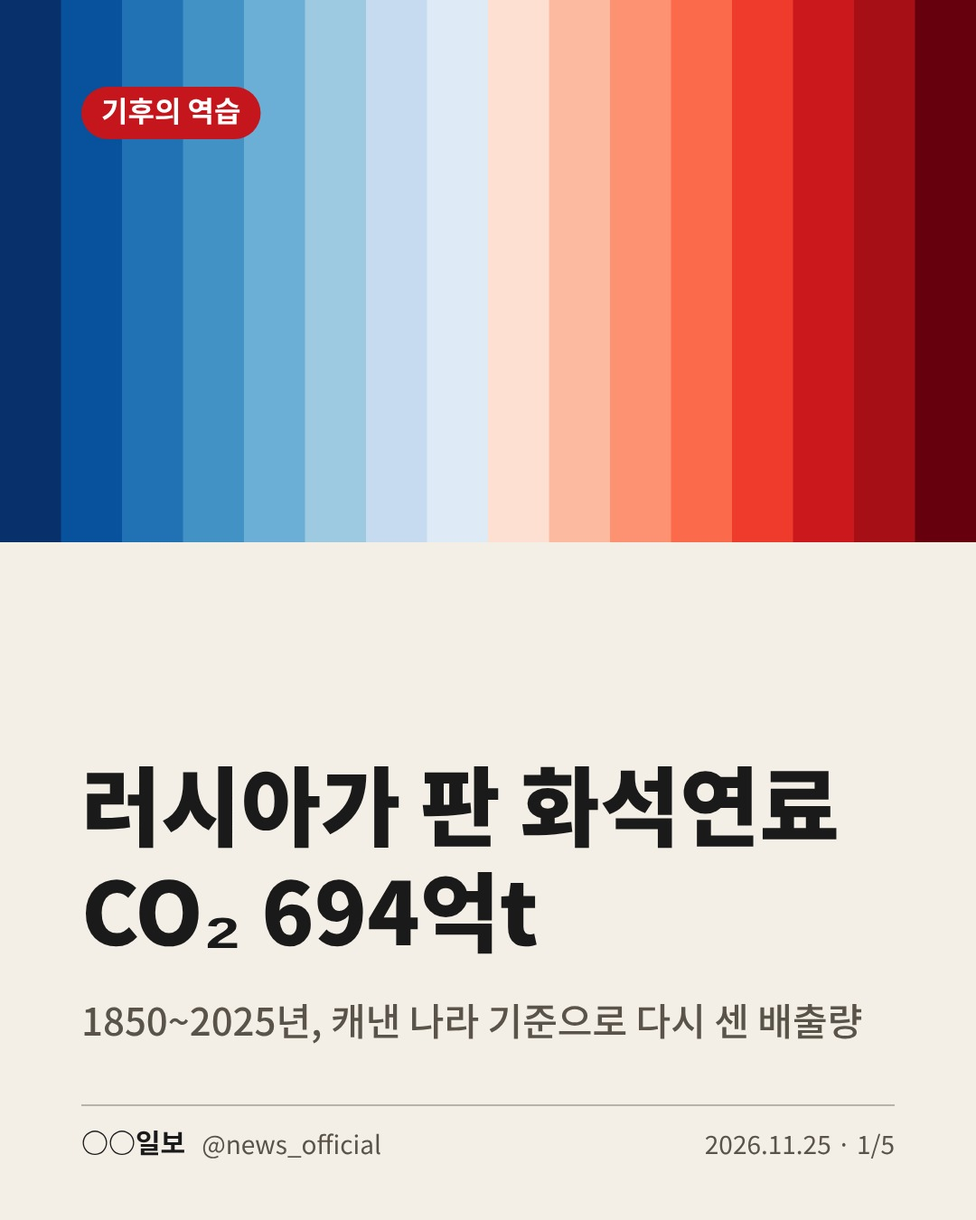
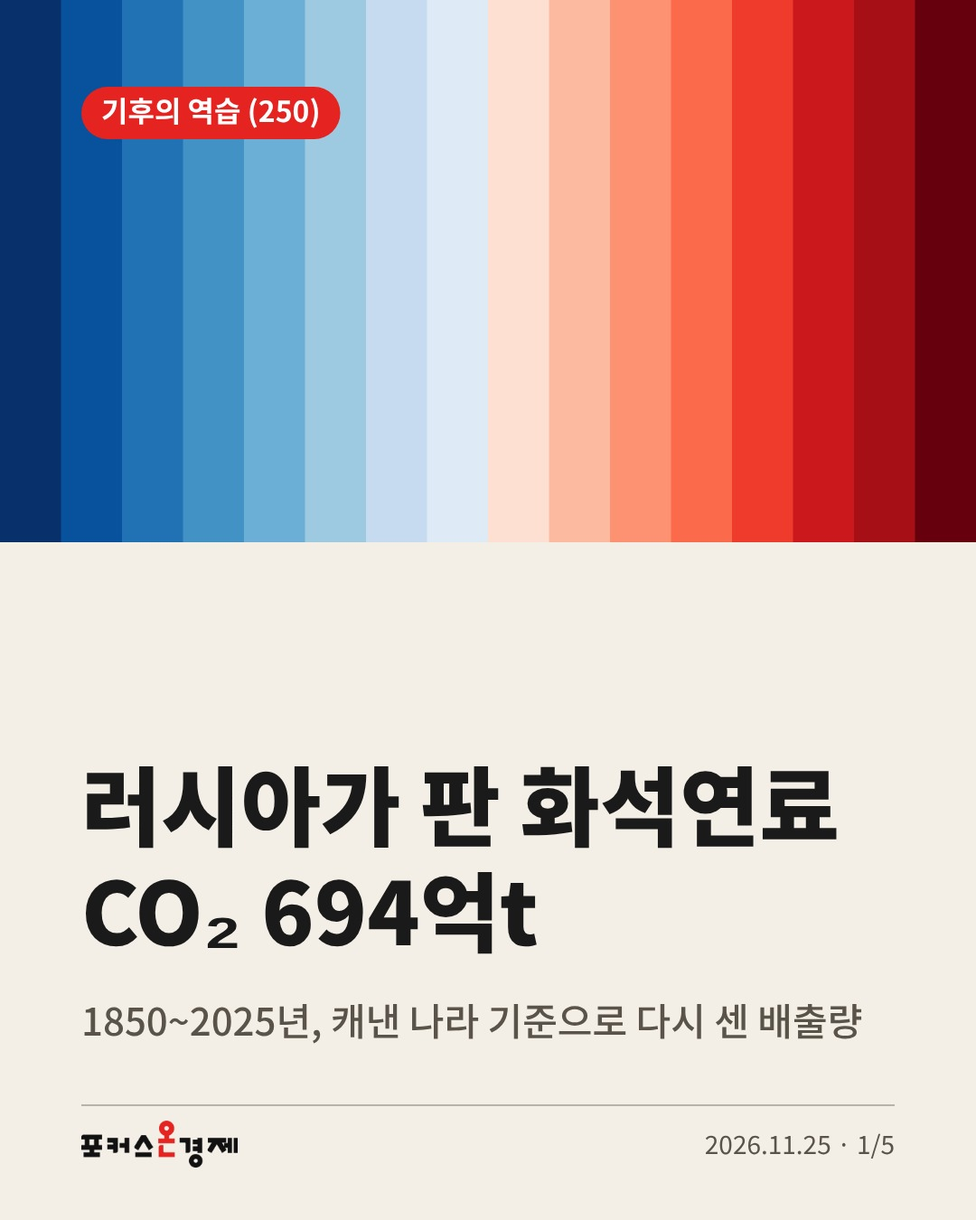
Brand card news tool for Focus On Economy
Use the outlet's logo and red, rename series to match the site
(기후의 역습 with episode number, 증시 레이더), and re-render the example.

Claude-Session: https://claude.ai/code/session_01LpKMAiNNHk9goM4ZpfEptM

Changed region(s): [[0.0917, 0.0622, 0.3667, 0.1244], [0.0611, 0.9022, 0.3972, 0.9644]]

diff --git a/cardnews-tool/index.html b/cardnews-tool/index.html
@@ -14,7 +14,7 @@
    PICTURE: 실제 카드 미리보기 캐러셀 자체
    COLOUR and TYPE: 흰 바탕, 먹색, 신문 빨강 하나 / Noto Sans KR
    LAYOUT: 먹색 제목줄, 원고 | 교정쇄 2단, 아래에 캡션과 장별 편집 */
-:root{color-scheme:light dark;--bg:light-dark(#ffffff,#121212);--ink:light-dark(#141414,#ececec);--sub:light-dark(#5a5a5a,#a9a9a9);--line:light-dark(#dedede,#303030);--panel:light-dark(#f4f4f2,#1b1b1b);--red:#d7261e}
+:root{color-scheme:light dark;--bg:light-dark(#ffffff,#121212);--ink:light-dark(#141414,#ececec);--sub:light-dark(#5a5a5a,#a9a9a9);--line:light-dark(#dedede,#303030);--panel:light-dark(#f4f4f2,#1b1b1b);--red:#e52320}
 :root[data-theme=light]{color-scheme:light}:root[data-theme=dark]{color-scheme:dark}
 *{box-sizing:border-box;min-width:0}
 body{margin:0;background:var(--bg);color:var(--ink);font:16px/1.55 "Noto Sans KR","Apple SD Gothic Neo",sans-serif;overflow-x:clip}
@@ -91,15 +91,15 @@ summary{cursor:pointer;font-weight:700;min-height:32px}
       <button id="zip" class="primary" hidden>전체 이미지 저장 (ZIP)</button>
       <span id="dlhint" class="note">이미지를 길게 누르거나 우클릭해서 저장할 수 있습니다.</span>
     </div>
-    <p class="note" id="sampleNote">지금 보이는 카드와 기사는 예시입니다. 수치는 실제 시세가 아닙니다.</p>
+    <p class="note" id="sampleNote">지금 보이는 카드는 기사 「러시아가 수출한 화석연료서 CO₂ 694억t」로 만든 예시입니다.</p>
   </section>
 
   <section class="desk" aria-label="기사 입력">
     <fieldset class="seg" id="series">
       <legend>시리즈</legend>
-      <label><input type="radio" name="series" value="climate"><span>기후위기의 역습</span></label>
-      <label><input type="radio" name="series" value="open"><span>증시 개장</span></label>
-      <label><input type="radio" name="series" value="close" checked><span>증시 마감</span></label>
+      <label><input type="radio" name="series" value="climate" checked><span>기후의 역습</span></label>
+      <label><input type="radio" name="series" value="open"><span>증시 레이더 · 개장</span></label>
+      <label><input type="radio" name="series" value="close"><span>증시 레이더 · 마감</span></label>
       <label><input type="radio" name="series" value="general"><span>일반 기사</span></label>
     </fieldset>
     <label for="title">기사 제목</label>
@@ -108,17 +108,19 @@ summary{cursor:pointer;font-weight:700;min-height:32px}
     <textarea id="body" rows="11" placeholder="기사 본문을 그대로 붙여 넣으세요"></textarea>
     <div class="row">
       <div><label for="count">장수</label>
-        <select id="count"><option>5</option><option selected>6</option><option>7</option><option>8</option></select></div>
-      <div><label for="photo">표지 사진 (선택)</label><input id="photo" type="file" accept="image/*"></div>
+        <select id="count"><option selected>5</option><option>6</option><option>7</option><option>8</option></select></div>
+      <div><label for="ep">회차 (선택)</label><input id="ep" inputmode="numeric" placeholder="예: 251"></div>
     </div>
+    <label for="photo">표지 사진 (선택)</label><input id="photo" type="file" accept="image/*">
     <p class="note" id="photoNote" hidden>표지 사진 적용됨 · <button id="rmPhoto" style="min-height:32px;font-size:13px">사진 빼기</button></p>
     <div style="margin-top:18px"><button id="gen" class="primary">카드뉴스 생성</button></div>
     <p id="msg" role="status" aria-live="polite"></p>
     <details>
       <summary>매체 설정</summary>
       <label for="bname">매체 이름</label><input id="bname">
-      <label for="bhandle">인스타그램 계정</label><input id="bhandle">
-      <label for="bcolor">일반 기사 강조색</label><input id="bcolor" type="color">
+      <label for="bhandle">인스타그램 계정</label><input id="bhandle" placeholder="@계정 (비우면 로고만 표시)">
+      <label for="bcolor">강조색</label><input id="bcolor" type="color">
+      <label style="display:flex;gap:8px;align-items:center;font-weight:500"><input id="blogo" type="checkbox" style="width:20px;height:20px"> 카드 하단에 로고 이미지 사용</label>
       <p class="note">설정은 이 브라우저에 저장됩니다.</p>
     </details>
   </section>
@@ -145,7 +147,8 @@ summary{cursor:pointer;font-weight:700;min-height:32px}
 {
 const $=s=>document.querySelector(s);
 const W=1080,H=1350,PAD=90;
-const SERIES={climate:{kicker:'기후위기의 역습'},open:{kicker:'오늘의 증시 · 개장'},close:{kicker:'오늘의 증시 · 마감'},general:{kicker:'뉴스'}};
+const SERIES={climate:{kicker:'기후의 역습'},open:{kicker:'증시 레이더 · 개장'},close:{kicker:'증시 레이더 · 마감'},general:{kicker:'포커스온경제'}};
[1 lines of base64/hex data omitted]
 const KINDS={cover:'표지',point:'본문',index:'수치표',quote:'인용',outro:'마무리'};
 const STRIPES=['#08306b','#08519c','#2171b5','#4292c6','#6baed6','#9ecae1','#c6dbef','#deebf7','#fee0d2','#fcbba1','#fc9272','#fb6a4a','#ef3b2c','#cb181d','#a50f15','#67000d'];
 const d0=new Date(),TODAY=`${d0.getFullYear()}.${String(d0.getMonth()+1).padStart(2,'0')}.${String(d0.getDate()).padStart(2,'0')}`;
@@ -153,28 +156,29 @@ const str=v=>v==null?'':String(v).replace(/\\n/g,'\n');
 const use=n=>window.claude&&window.claude.use?window.claude.use(n):Promise.resolve(null);
 const h=(t,p={},k=[])=>{const e=Object.assign(document.createElement(t),p);for(const c of k)e.append(c);return e};
 
-let brand={name:'○○일보',handle:'@news_official',color:'#d7261e'};
-try{Object.assign(brand,JSON.parse(localStorage.getItem('cn-brand')||'{}'))}catch(e){}
+let brand={name:'포커스온경제',handle:'',color:'#e52320',logo:true};
+try{Object.assign(brand,JSON.parse(localStorage.getItem('cn-brand2')||'{}'))}catch(e){}
 
-const st={series:'close',photo:null,canvases:[],slides:[
- {kind:'cover',title:'코스피 2,810선 회복\n외국인 사흘 만에 순매수',body:'반도체 강세에 0.66% 오르며 마감',dir:'up'},
- {kind:'index',title:'오늘의 지수',items:[{name:'코스피',value:'2,812.45',change:'+18.32',pct:'+0.66%'},{name:'코스닥',value:'868.10',change:'-3.25',pct:'-0.37%'},{name:'원/달러 환율',value:'1,384.2원',change:'-4.1원',pct:''}]},
- {kind:'point',title:'반도체가 끌어올렸다',body:'미국 기술주 반등 소식에 반도체 대형주로 매수세가 몰렸습니다. 외국인은 유가증권시장에서 3,200억 원어치를 순매수했습니다.'},
- {kind:'point',title:'코스닥은 약세',body:'2차전지 종목에서 차익 실현 매물이 나오면서 코스닥은 0.37% 내렸습니다.'},
- {kind:'point',title:'내일 볼 것',body:'밤사이 발표되는 미국 물가 지표와 원/달러 환율 흐름이 다음 거래일 방향을 가를 전망입니다.'},
- {kind:'outro',title:'자세한 내용은\n프로필 링크에서',body:'매일 장 마감 후 증시를 정리해 드립니다'}
-],caption:'코스피가 반도체 강세에 힘입어 2,810선을 회복했습니다. 외국인이 사흘 만에 순매수로 돌아섰고, 코스닥은 2차전지 약세로 소폭 내렸습니다. 밤사이 미국 물가 지표가 다음 거래일의 변수입니다.\n▶ 기사 전문은 프로필 링크에서',
-tags:['#증시','#코스피','#코스닥','#장마감','#반도체','#환율','#경제뉴스'],verify:['코스피 2,812.45 (+18.32)','코스닥 868.10 (-3.25)','환율 1,384.2원','외국인 순매수 3,200억 원']};
-$('#title').value='코스피, 반도체 강세에 2,810선 회복…외국인 사흘 만에 순매수';
-$('#body').value='코스피가 반도체 대형주 강세에 힘입어 2,810선을 회복했다. 25일 유가증권시장에서 코스피는 전 거래일보다 18.32포인트(0.66%) 오른 2,812.45에 장을 마쳤다. 외국인은 3,200억 원어치를 순매수하며 사흘 만에 매수 우위로 돌아섰다. 코스닥은 2차전지 종목의 차익 실현 매물에 3.25포인트(0.37%) 내린 868.10에 마감했다. 원/달러 환율은 4.1원 내린 1,384.2원에 거래를 마쳤다. 시장에서는 밤사이 발표되는 미국 물가 지표가 다음 거래일 방향을 가를 것으로 보고 있다. (예시 기사)';
+const K='기후의 역습';
+const st={series:'climate',ep:'250',photo:null,canvases:[],slides:[
+ {kind:'cover',title:'러시아가 판 화석연료\nCO₂ 694억t',body:'1850~2025년, 캐낸 나라 기준으로 다시 센 배출량'},
+ {kind:'index',title:'수출한 화석연료가 남긴\n누적 CO₂',items:[{name:'러시아',value:'694억t',change:'',pct:'1위'},{name:'사우디아라비아',value:'610억t',change:'',pct:'2위'},{name:'호주',value:'281억t',change:'',pct:'3위'}]},
+ {kind:'point',title:'기준을 바꾸자\n순위가 뒤집혔다',body:'연료를 태운 나라가 아니라 캐낸 나라에 배출량을 매기자, 영토 기준 6위였던 일본은 34위로 내려갔습니다. 사우디의 온난화 기여도는 네 배 이상 커졌습니다.'},
+ {kind:'point',title:'퇴출을 외친 의장국\n호주의 딜레마',body:'COP31에서 화석연료 퇴출 협상을 중재하는 호주가 수출 배출량 3위에 올랐습니다. 사우디·러시아 등 산유국은 퇴출 문구에 반대하고 있습니다.'},
+ {kind:'outro',title:'파는 나라와 쓰는 나라\n책임은 누가 질까',body:'자세한 내용은 프로필 링크에서'}
+],caption:'러시아가 1850년부터 2025년까지 수출한 석탄·석유·가스에서 나온 CO₂가 약 694억t에 달한다는 분석이 나왔습니다. 사우디아라비아(610억t)와 호주(281억t)가 뒤를 이었습니다. 연료를 태운 나라가 아니라 캐내 수출한 나라를 기준으로 계산하자, 영토 기준 6위였던 일본은 34위로 내려갔습니다. COP31 공동의장국으로 화석연료 퇴출 협상을 이끄는 호주가 수출 3위에 오르면서, 수출국의 기후피해 책임도 쟁점이 됐습니다.\n▶ 기사 전문은 프로필 링크에서',
+tags:['#포커스온경제','#기후의역습','#기후위기','#화석연료','#탄소배출','#COP31','#기후재정','#탈석탄','#카본브리프'],verify:['러시아 694억t','사우디 610억t','호주 281억t','1850~2025년','일본 6위→34위','사우디 기여도 네 배 이상']};
+$('#title').value='[기후의 역습] 러시아가 수출한 화석연료서 CO₂ 694억t…사우디·호주 뒤이어';
+$('#body').value="1850~2025년 화석연료 수출 분석…연소한 국가 대신 채굴국 기준으로 배출량 계산\n호주, 누적 수출 배출량 3위…COP31 화석연료 퇴출·기후재정 논쟁과 맞물려\n\n러시아가 1850년부터 2025년까지 수출한 석탄·석유·가스를 태우는 과정에서 발생한 이산화탄소(CO₂)가 약 694억t에 달한다는 분석이 나왔다. 사우디아라비아는 610억t, 호주는 281억t으로 뒤를 이었다. 화석연료를 소비한 나라가 아니라 캐내 수출한 나라를 기준으로 배출량을 집계한 결과다.\n\n영국 기후전문매체 카본브리프는 17일(현지시간) 노르웨이 기후연구기관 CICERO의 로비 앤드루 수석연구원이 구축한 자료를 토대로 국가별 화석연료 생산·수출량을 분석해 이같이 밝혔다. 베네수엘라와 이란도 주요 수출국으로 꼽혔으며, 노르웨이와 아랍에미리트(UAE), 캐나다가 공급한 화석연료에서도 상당한 양의 CO₂가 발생한 것으로 나타났다.\n\n이번 분석은 튀르키예 안탈리아에서 열리는 유엔기후변화협약 당사국총회(COP31)의 화석연료 퇴출 논의와 맞물려 관심을 끈다. 특히 튀르키예와 함께 공동의장국을 맡은 호주가 누적 수출 배출량 3위에 오르면서, 화석연료 수출국이 기후피해 비용을 얼마나 부담해야 하는지도 쟁점이 됐다.\n\n채굴국 기준으로 바꾸자 일본 6위→34위\n\n통상 국가별 온실가스 배출량은 연료가 실제로 사용된 곳을 기준으로 계산한다. 한국에서 수입 원유를 태우면 한국의 배출량으로, 일본 발전소에서 호주산 석탄을 태우면 일본의 배출량으로 잡힌다.\n\n카본브리프는 화석연료를 채굴한 나라에 배출량을 배분했다. 호주산 석탄이 일본에서 소비됐더라도 그 연소로 발생한 CO₂를 호주에 귀속하는 방식이다. 과거 자료는 현재 국경을 기준으로 정리했다. 옛 소련과 체코슬로바키아, 유고슬라비아의 자료는 국가 분리 당시 비중을 토대로 현 국가들에 나눴다.\n\n기준을 바꾸자 국가별 누적 배출량 순위도 달라졌다. 사우디아라비아의 역사적 온난화 기여도는 수출한 화석연료를 반영할 경우 기존보다 네 배 이상 커졌다. 호주에 귀속되는 누적 배출량도 두 배 이상 늘어 세계 10위 안에 들었다.\n\n에너지 수입 의존도가 높은 독일·프랑스·일본은 반대였다. 특히 영토 내 누적 CO₂ 배출량이 세계 6위인 일본은 채굴 기준으로 34위까지 내려갔다.\n\n미국과 중국은 채굴 기준으로도 각각 1·2위를 유지했다. 두 나라 모두 오랫동안 화석연료를 순수입했지만, 자국에서 생산하고 소비한 석탄·석유·가스 규모도 컸기 때문이다. 러시아는 그 뒤를 이었다. 수출한 화석연료의 배출량 순위와 국내 소비분까지 포함한 채굴 기준 순위가 다른 이유다.\n\n화석연료 퇴출 제안한 호주도 수출 3위\n\n호주는 COP31에서 화석연료 사용을 줄이기 위한 협상을 중재하고 있다. 지난 16일 공개한 합의문 초안에는 에너지 체계에서 화석연료로부터의 전환에 즉각 나서고, 단계적 퇴출을 위한 행동을 서두르는 내용이 담겼다.\n\n그러나 사우디아라비아와 러시아 등 일부 산유국과 아랍권 국가들이 퇴출 문구에 반대하고 있어 최종 합의문에 반영될지는 불투명하다. 144개 항목으로 이뤄진 초안의 상당 부분에도 각국의 반대와 수정 요구가 제기된 상태다.\n\n기후단체들은 협상을 주도하는 국가의 화석연료 수출 이력도 따져야 한다고 주장한다. ‘오염자 부담을 위한 국제연합’은 화석연료를 팔아 이익을 얻은 국가와 기업이 기후피해 비용을 더 많이 부담해야 한다는 입장이다. 소비국에 배출량을 귀속하는 기존 통계만으로는 수출로 얻은 이익과 그에 따른 책임을 충분히 반영하기 어렵다는 것이다.\n\n호주가 제시한 화석연료 퇴출 방안과 자국 수출산업을 어떻게 조정할지도 관심사다. 협상에서 다른 나라의 감축을 요구하는 동시에 자국이 공급하는 석탄과 가스를 줄일 방안도 설명해야 한다는 압박을 받게 됐다.\n\n생산국·기업·소비국의 책임은 어떻게 나누나\n\n채굴 기준 집계가 생산국에 모든 책임을 돌려야 한다는 뜻은 아니다. 자료를 구축한 앤드루 연구원도 카본브리프에 화석연료 연소의 책임을 채굴국에만 물을 수는 없다며 생산국과 기업, 소비국이 함께 책임져야 한다고 밝혔다. 중동 석유산업의 상당 부분이 서방 자본과 수요를 바탕으로 개발됐다는 역사도 고려해야 한다는 설명이다.\n\n사우디아라비아는 소비국의 선택을 강조한다. 연료를 어떻게 사용하고 어떤 기술로 배출량을 줄일지는 최종 소비국이 결정하는 만큼, 소비한 나라의 책임을 제외한 채 수출국에만 부담을 지우는 것은 부당하다는 주장이다.\n\n배출량을 계산하는 기준에 따라 국가별 책임은 달라진다. 영토 기준은 국내에서 발생한 배출량을, 소비 기준은 수입품을 포함해 자국이 소비한 상품과 서비스에 수반된 배출량을 따진다. 인구 규모를 고려하려면 1인당 누적 배출량을 비교할 수도 있다. 채굴 기준은 여기에 연료 공급국의 몫을 추가로 살펴보는 방법이다.\n\n이번 분석은 기존 배출량 통계를 대체하거나 국가별 분담금을 정한 결과가 아니다. 다만 화석연료 수출로 이익을 얻은 국가에도 기후재정 기여를 요구하는 근거로 쓰일 수 있다. COP31에서 감축과 재정 지원의 분담을 논의하는 각국이 자국 내 배출량뿐 아니라 국경 밖으로 내보낸 연료의 배출량까지 설명해야 할 이유가 생겼다.";
+$('#ep').value=st.ep;
 
 /* ---------- 카드 그리기 ---------- */
 const F=(w,s)=>`${w} ${s}px "Noto Sans KR","Apple SD Gothic Neo",sans-serif`;
 function theme(){
   const s=st.series;
-  if(s==='climate')return{bg:'#f3efe7',ink:'#1a1a1a',sub:'#5a534a',acc:'#c4161c',dark:false};
+  if(s==='climate')return{bg:'#f3efe7',ink:'#1a1a1a',sub:'#5a534a',acc:'#e52320',dark:false};
   if(s==='open'||s==='close')return{bg:'#0d1b2e',ink:'#ffffff',sub:'#9fb0c8',acc:s==='open'?'#ffb020':'#7fd0ff',dark:true};
-  return{bg:'#ffffff',ink:'#141414',sub:'#5c5c5c',acc:brand.color||'#d7261e',dark:false};
+  return{bg:'#ffffff',ink:'#141414',sub:'#5c5c5c',acc:brand.color||'#e52320',dark:false};
 }
 function wrap(x,text,maxW){
   const out=[];
@@ -212,9 +216,11 @@ function spark(x,dir,col){
   const e=pts[N-1];x.beginPath();x.arc(e[0],e[1],14,0,7);x.fillStyle=col;x.fill();
 }
 
+const kickerOf=()=>SERIES[st.series].kicker+(st.ep?` (${st.ep})`:'');
+const logoFor=lightBg=>{const l=lightBg?LOGO.dark:LOGO.light;return brand.logo&&l.complete&&l.naturalWidth?l:null};
 function draw(sl,i,n){
   const c=document.createElement('canvas');c.width=W;c.height=H;const x=c.getContext('2d');
-  const t=theme(),UP=t.dark?'#ff5a5f':'#c4161c',DOWN=t.dark?'#4d9bff':'#1f5fbf';
+  const t=theme(),UP=t.dark?'#ff5a5f':'#e52320',DOWN=t.dark?'#4d9bff':'#1f5fbf';
   let ink=t.ink,sub=t.sub;const acc=t.acc,cover=sl.kind==='cover',photo=cover&&st.photo;
   x.textBaseline='top';x.fillStyle=t.bg;x.fillRect(0,0,W,H);
   // 배경 장식
@@ -234,7 +240,7 @@ function draw(sl,i,n){
     else{x.fillStyle=acc;x.fillRect(0,0,W,16)}
   }
   // 머리표
-  const kick=sl.kicker||SERIES[st.series].kicker;
+  const kick=sl.kicker||kickerOf();
   x.font=F(700,32);const kw=x.measureText(kick).width;
   rr(x,PAD,96,kw+44,58,29);x.fillStyle=acc;x.fill();
   x.fillStyle=t.dark?t.bg:'#ffffff';x.fillText(kick,PAD+22,107);
@@ -267,7 +273,9 @@ function draw(sl,i,n){
     const br=sl.body?fit(x,sl.body,MW,130,38,28,500,1.45):null;
     let y=640-(hgt(tr)+(br?hgt(br)+36:0)+96)/2;
     y=put(x,tr,W/2,y,ink);if(br)y=put(x,br,W/2,y+36,sub);
-    x.font=F(700,42);x.fillStyle=acc;x.fillText(brand.handle,W/2,y+50);
+    const lo=logoFor(!(t.dark||photo));
+    if(brand.handle){x.font=F(700,42);x.fillStyle=acc;x.fillText(brand.handle,W/2,y+50)}
+    else if(lo){const lh=92,lw=lo.naturalWidth*lh/lo.naturalHeight;x.drawImage(lo,(W-lw)/2,y+56,lw,lh)}
     x.textAlign='left';
   }else{
     const y=put(x,fit(x,sl.title,MW,330,70,48,900,1.28),PAD,214,ink)+46;
@@ -275,15 +283,17 @@ function draw(sl,i,n){
   }
   // 바닥글
   x.globalAlpha=.28;x.fillStyle=ink;x.fillRect(PAD,1222,MW,2);x.globalAlpha=1;
-  x.font=F(700,30);x.fillStyle=ink;x.fillText(brand.name,PAD,1250);
-  const bw=x.measureText(brand.name).width;x.font=F(400,28);x.fillStyle=sub;x.fillText(brand.handle,PAD+bw+18,1252);
-  x.textAlign='right';x.fillText(`${TODAY} · ${i+1}/${n}`,W-PAD,1252);x.textAlign='left';
+  const fl=logoFor(!(t.dark||photo));let fx;
+  if(fl){const lh=52,lw=fl.naturalWidth*lh/fl.naturalHeight;x.drawImage(fl,PAD,1240,lw,lh);fx=PAD+lw+18}
+  else{x.font=F(700,30);x.fillStyle=ink;x.fillText(brand.name,PAD,1250);fx=PAD+x.measureText(brand.name).width+18}
+  if(brand.handle){x.font=F(400,28);x.fillStyle=sub;x.fillText(brand.handle,fx,1254)}
+  x.font=F(400,28);x.fillStyle=sub;x.textAlign='right';x.fillText(`${TODAY} · ${i+1}/${n}`,W-PAD,1252);x.textAlign='left';
   return c;
 }
 
 let dl=null;
 async function render(){
-  const txt=(JSON.stringify(st.slides)+brand.name+brand.handle+'“—·▲▼0123456789'+Object.values(SERIES).map(s=>s.kicker).join('')).slice(0,3000);
+  const txt=(JSON.stringify(st.slides)+brand.name+brand.handle+'“—·▲▼0123456789'+Object.values(SERIES).map(s=>s.kicker).join('')+'()').slice(0,3000);
   try{await Promise.all([400,500,700,900].map(w=>document.fonts.load(F(w,40),txt)))}catch(e){}
   const n=st.slides.length,rail=$('#rail');
   st.canvases=st.slides.map((s,i)=>draw(s,i,n));
@@ -334,13 +344,13 @@ function lowerPanel(){
 
 /* ---------- 생성 ---------- */
 const GUIDE={
- climate:'시리즈 "기후위기의 역습". 구성: cover(경각심을 주는 제목) → 핵심 사실·수치(point, 비교할 수치가 3개 이상이면 index) → 원인(point) → 피해·영향(point) → 전문가 발언이 기사에 있으면 quote → 대응·우리가 할 일(point) → outro. 경각심은 주되 과장하지 말 것.',
- open:'시리즈 "증시 개장". 구성: cover(개장 흐름 한 줄, dir은 코스피 방향) → index(코스피·코스닥·원/달러 환율 등 기사에 있는 것만, 개장 시점 수치) → 출발 배경·간밤 미국 증시(point) → 수급: 외국인·기관·개인(point) → 주목 업종·종목(point) → outro.',
- close:'시리즈 "증시 마감". 구성: cover(오늘 장 한 줄 요약, dir은 코스피 방향) → index(코스피·코스닥·원/달러 환율 등 기사에 있는 것만, 종가 기준) → 상승·하락 요인(point) → 수급: 외국인·기관·개인(point) → 업종·종목 동향(point) → 내일 볼 변수(point, 기사에 있을 때만) → outro.',
+ climate:'시리즈 "기후의 역습"(포커스온경제 기후 연재). 구성: cover(경각심을 주는 제목) → 핵심 사실·수치(point, 비교할 수치가 3개 이상이면 index) → 원인(point) → 피해·영향(point) → 전문가 발언이 기사에 있으면 quote → 대응·우리가 할 일(point) → outro. 경각심은 주되 과장하지 말 것.',
+ open:'시리즈 "증시 레이더" 개장편. 구성: cover(개장 흐름 한 줄, dir은 코스피 방향) → index(코스피·코스닥·원/달러 환율 등 기사에 있는 것만, 개장 시점 수치) → 출발 배경·간밤 미국 증시(point) → 수급: 외국인·기관·개인(point) → 주목 업종·종목(point) → outro.',
+ close:'시리즈 "증시 레이더" 마감편. 구성: cover(오늘 장 한 줄 요약, dir은 코스피 방향) → index(코스피·코스닥·원/달러 환율 등 기사에 있는 것만, 종가 기준) → 상승·하락 요인(point) → 수급: 외국인·기관·개인(point) → 업종·종목 동향(point) → 내일 볼 변수(point, 기사에 있을 때만) → outro.',
  general:'일반 기사. 구성: cover → 핵심 내용 point 여러 장(수치 비교가 중심이면 index, 핵심 발언이 있으면 quote) → outro.'
 };
 function prompt(title,article,count){
-  return `너는 한국 언론사의 SNS 편집자다. 아래 기사로 인스타그램 카드뉴스 ${count}장(표지·마무리 포함)과 게시물 캡션을 만든다.
+  return `너는 경제 전문 매체 포커스온경제의 SNS 편집자다. 아래 기사로 인스타그램 카드뉴스 ${count}장(표지·마무리 포함)과 게시물 캡션을 만든다.
 
 ${GUIDE[st.series]}
 
@@ -353,7 +363,7 @@ ${GUIDE[st.series]}
 - outro.title: "자세한 내용은\\n프로필 링크에서" 같은 두 줄. outro.body: 한 줄 안내.
 - kicker는 모두 "".
 - caption: 3~5문장 요약, 마지막 줄은 "▶ 기사 전문은 프로필 링크에서". 이모지는 2개 이하.
-- hashtags: 6~10개, 각각 #으로 시작.
+- hashtags: 6~10개, 각각 #으로 시작, 첫 번째는 #포커스온경제.
 - verify: 카드와 캡션에 쓴 수치·고유명사 가운데 게시 전 원문과 대조해야 할 항목(각 20자 이내).
 
 JSON 객체 하나만 출력한다. 형식:
@@ -394,7 +404,7 @@ $('#gen').onclick=async()=>{
 };
 
 /* ---------- 저장·복사 ---------- */
-const fname=i=>`${TODAY.replace(/\./g,'')}_${SERIES[st.series].kicker.replace(/[^\w가-힣]+/g,'')}_${String(i+1).padStart(2,'0')}.jpg`;
+const fname=i=>`${TODAY.replace(/\./g,'')}_${kickerOf().replace(/[^\w가-힣]+/g,'')}_${String(i+1).padStart(2,'0')}.jpg`;
 const blobOf=c=>new Promise(r=>c.toBlob(r,'image/jpeg',.92));
 async function saveOut(filename,data){
   try{await dl.save({filename,data});msg(`${filename} 저장했습니다.`)}
@@ -410,17 +420,20 @@ $('#copy').onclick=()=>{const t=$('#cap').value;
   navigator.clipboard.writeText(t).then(()=>msg('캡션을 복사했습니다.')).catch(()=>{$('#cap').select();msg('선택된 캡션을 Ctrl+C(⌘+C)로 복사하세요.')})};
 
 /* ---------- 기타 입력 ---------- */
-document.querySelectorAll('#series input').forEach(r=>r.onchange=()=>{st.series=r.value;editors();render()});
+document.querySelectorAll('#series input').forEach(r=>r.onchange=()=>{st.series=r.value;if(r.value!=='climate'){st.ep='';$('#ep').value=''}editors();render()});
 $('#photo').onchange=e=>{const f=e.target.files[0];if(!f)return;const im=new Image();im.onload=()=>{st.photo=im;$('#photoNote').hidden=false;render()};im.src=URL.createObjectURL(f)};
 $('#rmPhoto').onclick=()=>{st.photo=null;$('#photo').value='';$('#photoNote').hidden=true;render()};
+$('#ep').oninput=e=>{st.ep=e.target.value.replace(/[^\d]/g,'');later()};
+$('#blogo').checked=brand.logo;$('#blogo').onchange=e=>{brand.logo=e.target.checked;try{localStorage.setItem('cn-brand2',JSON.stringify(brand))}catch(er){}render()};
 [['bname','name'],['bhandle','handle'],['bcolor','color']].forEach(([id,k])=>{const el=$('#'+id);el.value=brand[k];
-  el.oninput=()=>{brand[k]=el.value;try{localStorage.setItem('cn-brand',JSON.stringify(brand))}catch(e){}later()}});
+  el.oninput=()=>{brand[k]=el.value;try{localStorage.setItem('cn-brand2',JSON.stringify(brand))}catch(e){}later()}});
 $('#add').onclick=()=>{st.slides.splice(Math.max(0,st.slides.length-1),0,{kind:'point',title:'새 장',body:''});editors();render()};
 const step=d=>{const r=$('#rail'),f=r.querySelector('figure');r.scrollBy({left:d*((f?f.offsetWidth:300)+16),behavior:'smooth'})};
 $('#prev').onclick=()=>step(-1);$('#next').onclick=()=>step(1);
 $('#rail').onkeydown=e=>{if(e.key==='ArrowLeft'){e.preventDefault();step(-1)}if(e.key==='ArrowRight'){e.preventDefault();step(1)}};
 
-editors();lowerPanel();render();
+editors();lowerPanel();
+Promise.all([LOGO.dark,LOGO.light].map(l=>l.decode().catch(()=>{}))).then(render);
 use('downloads').then(d=>{if(!d)return;dl=d;$('#zip').hidden=false;$('#dlhint').hidden=true;render()});
 }
 </script>
